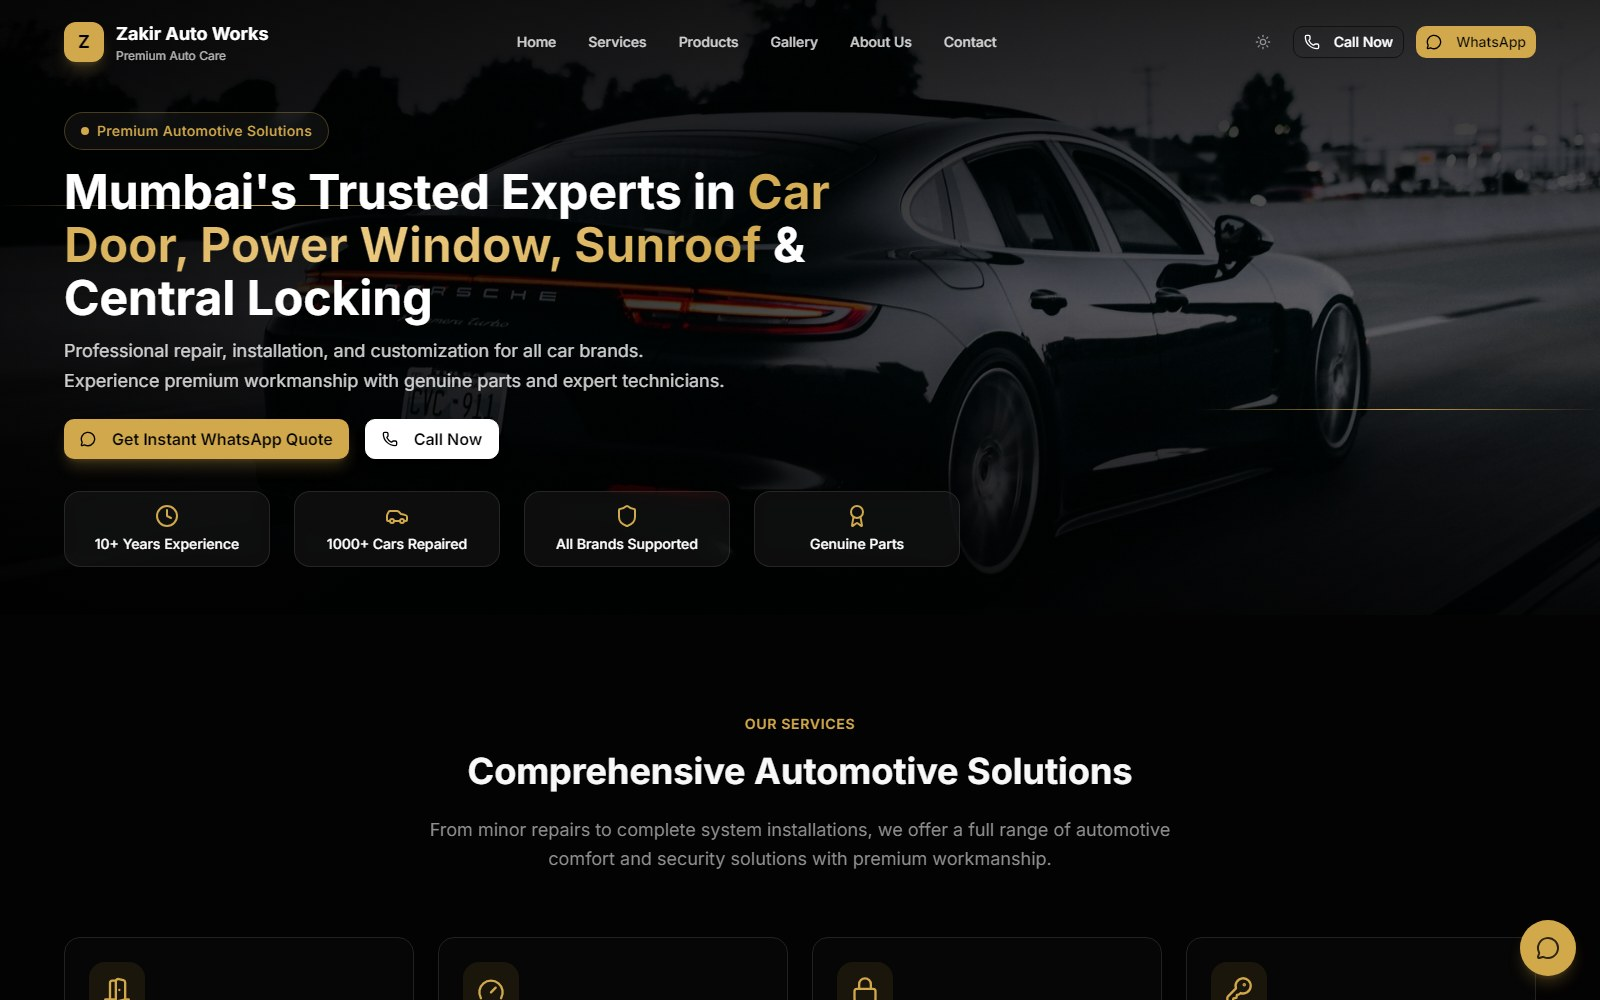
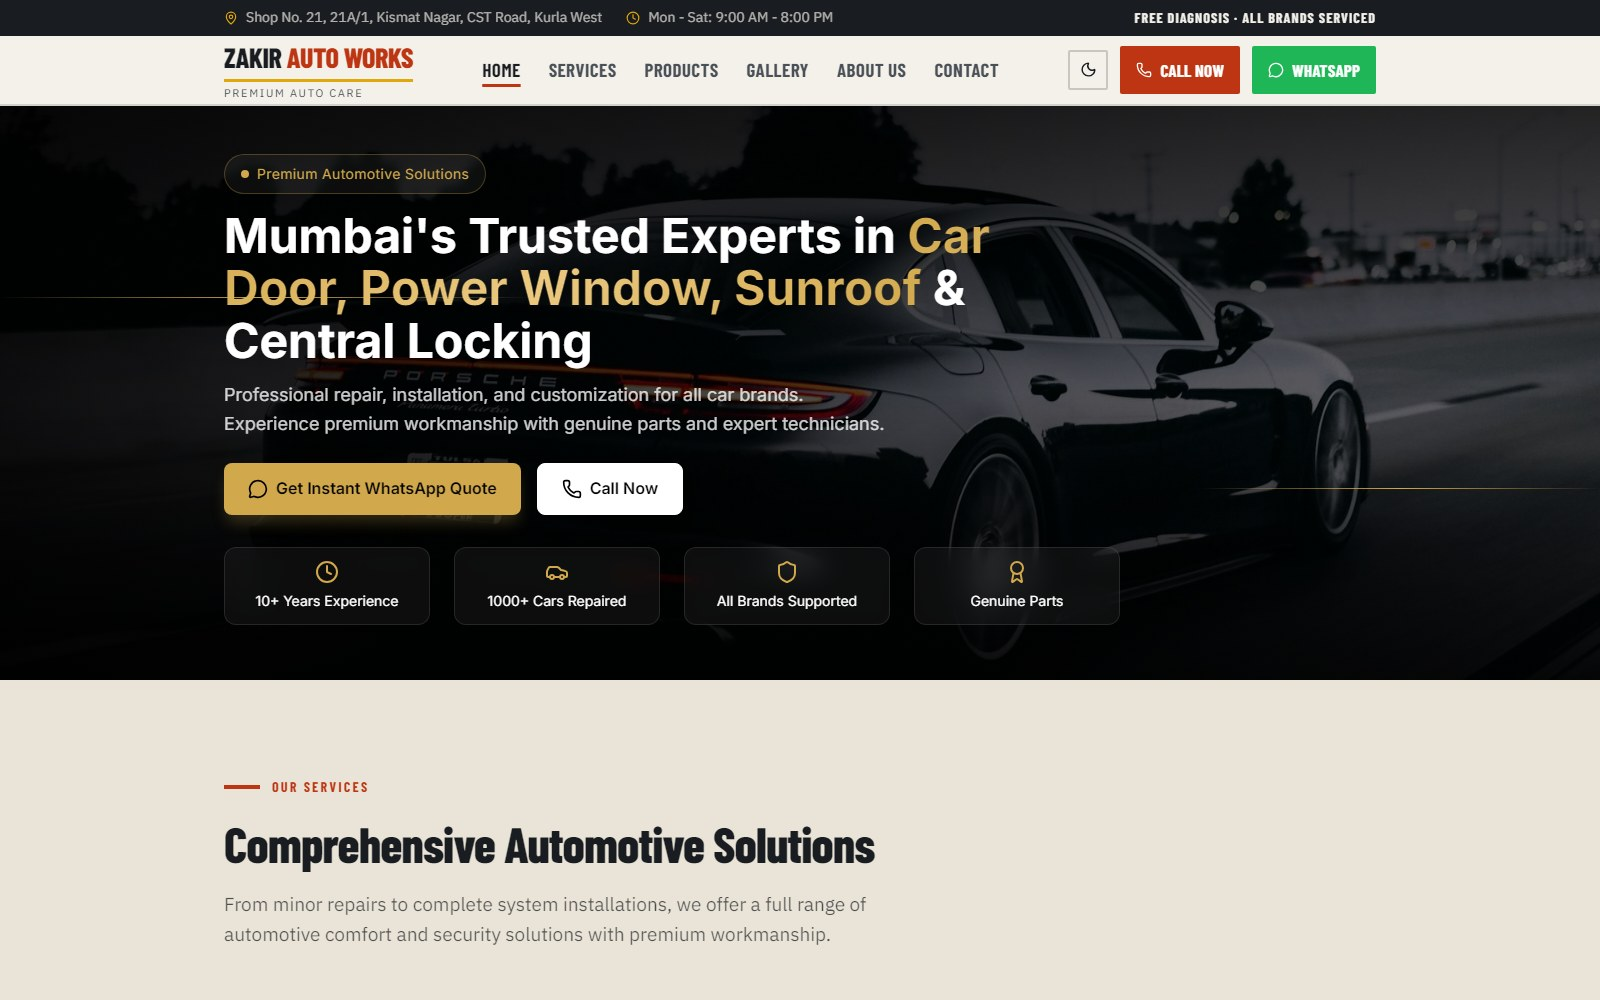
fix preview

diff --git a/index.html b/index.html
@@ -428,7 +428,7 @@
           <li><a href="https://chainthat.com/" rel="noopener">ChainThat</a> — brand and product site for an insurtech.</li>
           <li><a href="https://bakerandco.ae/" rel="noopener">Baker &amp; Co — Visa CRM</a> — end-to-end visa lead CRM.</li>
           <li><a href="https://www.elitefx.in/" rel="noopener">EliteFX</a> — full forex website plus CRM with native MT5 integration.</li>
-          <li><a href="https://autopart-web.vercel.app/" rel="noopener">AutoPart</a> — booking platform for premium car repair.</li>
+          <li><a href="https://www.autodoorspecialist.com/" rel="noopener">AutoPart</a> — booking platform for premium car repair.</li>
         </ul>
 
         <h2>Contact</h2>

diff --git a/src/data/projects.js b/src/data/projects.js
@@ -123,7 +123,7 @@ export const projects = [
     id: 'autopart',
     title: 'AutoPart',
     domain: 'Automotive',
-    host: 'autopart-web.vercel.app',
+    host: 'autodoorspecialist.com',
     year: '2025',
     summary:
       'Booking platform for premium car repair — quote builder, service catalogue and slot management.',
